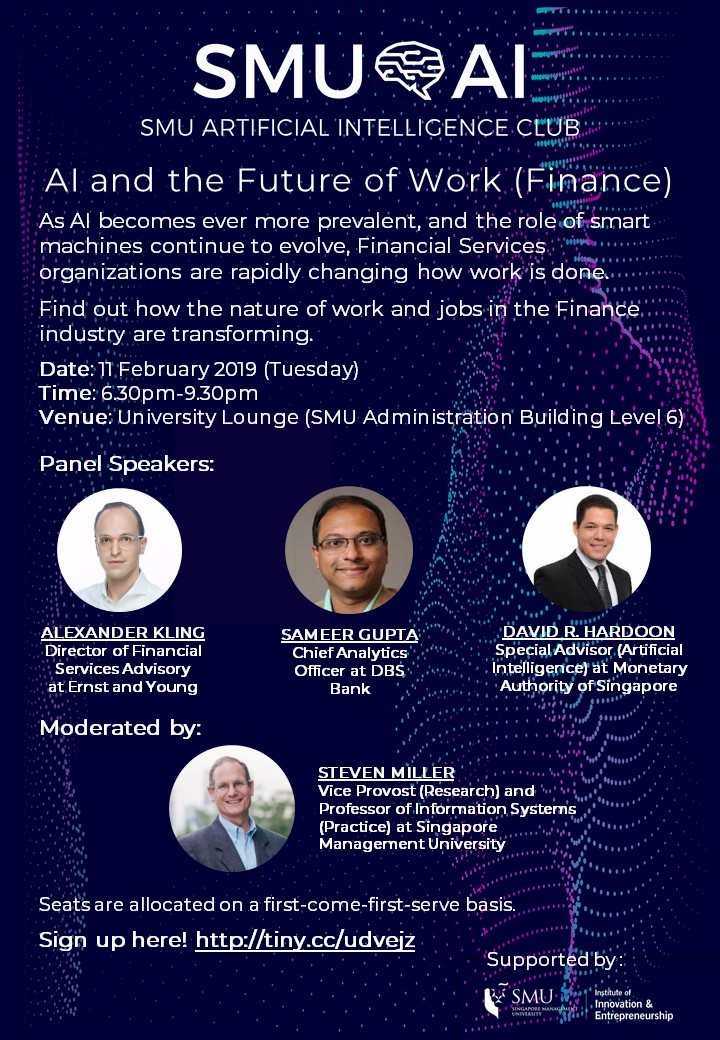
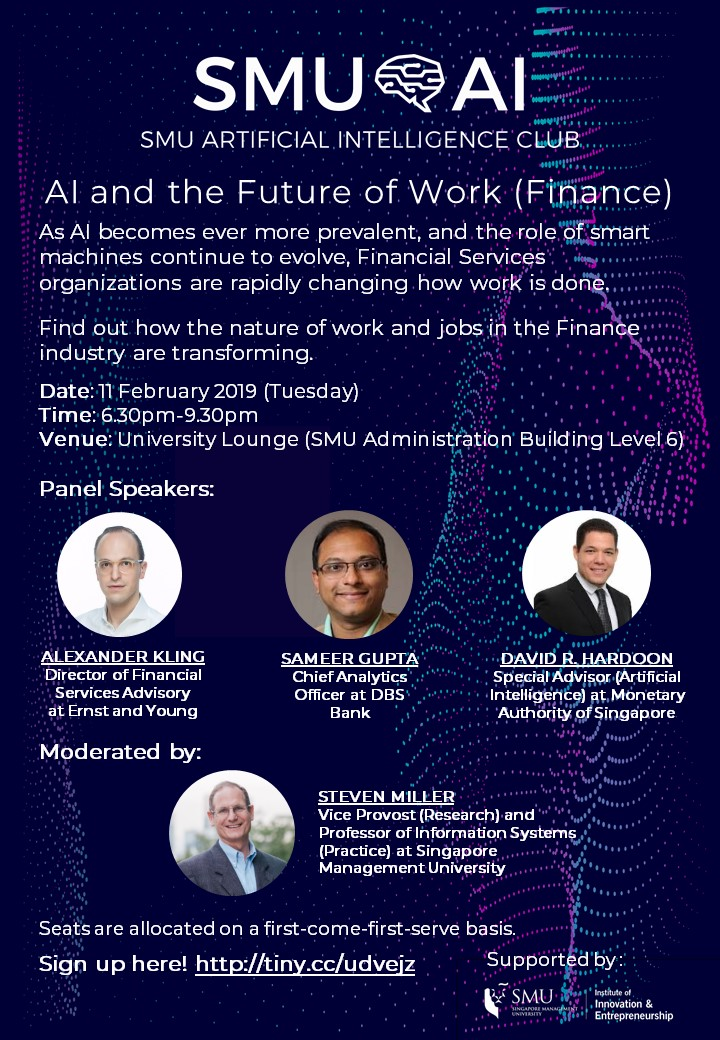
Aesthetic fixes to Panel 6 EDM and insights

Changed region(s): [[0.0306, 0.0308, 0.9472, 0.9538], [0.6722, 0.4615, 0.9472, 0.7077], [0.3972, 0.4615, 0.5806, 0.7077]]

diff --git a/src/Pages/Insights/index.js b/src/Pages/Insights/index.js
@@ -8,7 +8,7 @@ import './styles.css'
 const images = [
     {
         url: 'https://miro.medium.com/max/4000/1*cBHtohg6mBPzN2TOu1JLxQ.jpeg',
-        title: 'Everything you need to know about Singapore’s AI Strategy',
+        title: 'Everything you need to know about Singapore’s National AI Strategy',
         width: '100%',
         link: 'https://medium.com/@smuaiclub/everything-you-need-to-know-about-singapores-ai-strategy-dd900f8186d1',
         text: "Here we discuss the National AI Office's framework in crafting AI policy and how strategic timelines are determined, the specific “benefits” that the office is looking for with AI intra-industry wise, and how businesses can better prepare to meet the needs of the \"5 National AI Projects\".",
